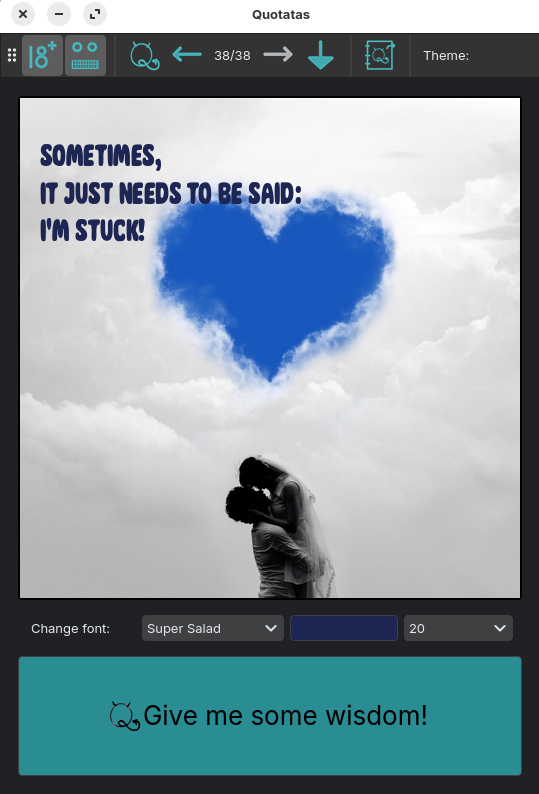
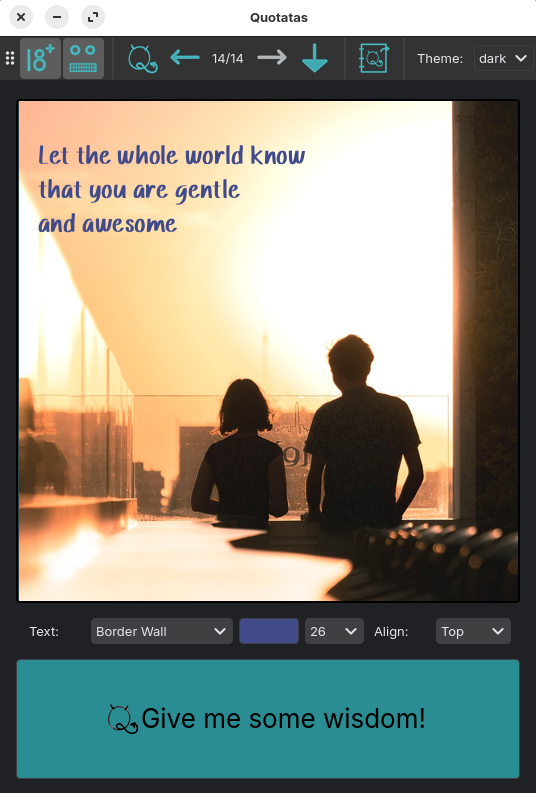
Some small corrections and new templates/words.

diff --git a/Quotatas/template_collection.py b/Quotatas/template_collection.py
@@ -195,13 +195,11 @@ def template_share():
 
 # Oh you
 def template_you():
-    return f'''{horoscope()}
-    You {noun_singular()}'''
+    return f'''{horoscope()}You {noun_singular()}'''
 
 # Oh adjective you
 def template_you_adjective():
-    return f'''{horoscope()}
-    You {adjective()} {noun_singular()}'''
+    return f'''{horoscope()}You {adjective()} {noun_singular()}'''
 
 # It can be
 def template_can_be():
@@ -210,8 +208,7 @@ def template_can_be():
 
 # No sorry
 def template_no_sorry():
-    return f'''{rule()}
-    Don't apologise
+    return f'''{rule()}Don't apologise
     for being {adjective()}'''
 
 # Reasons
@@ -313,8 +310,7 @@ def template_causation():
 
 # Two needs
 def template_two_needs():
-    return f'''{horoscope()}
-    The two things you need
+    return f'''{horoscope()}The two things you need
     in order to live {adverb()}
     are {random.choice([noun_plural(), concept()])} and {random.choice([noun_plural(), concept()])}'''
 
@@ -558,7 +554,7 @@ def template_like():
 # Effect
 def template_effect_again():
     noun = noun_singular()
-    end = random.choice([a_or_an(noun) + noun, concept()])
+    end = random.choice([f"{a_or_an(noun)} {noun}", concept()])
 
     return f'''{capitalize_first_letter(concept())}
     is usually followed
@@ -654,7 +650,6 @@ def template_recipe():
 	
 # Contents
 def template_contents():
-    food = food_singular()
     return f'''{capitalize_first_letter(concept())}?
     That's just {food_concept()},
     a tiny bit of {random.choice([food_singular(), concept()])}
@@ -669,8 +664,7 @@ def template_ingredients():
 # Necessity
 def template_necessity():
 	temp = noun_singular()
-	return f'''{rule()}
-    You need {random.choice([noun_plural(), f"{a_or_an(temp)} {temp}"])}
+	return f'''{rule()}You need {random.choice([noun_plural(), f"{a_or_an(temp)} {temp}"])}
     to {situation_active()}.'''
 	
 # Peanuts
@@ -762,6 +756,48 @@ def template_theydo():
 	return f'''{they} {verb_intransitive()}
     {they} {verb_intransitive()}
     {they} really {verb_intransitive()}'''
+
+# Complicated
+def template_complicated():
+    return f'''{horoscope()}{situation_active()}
+    complicates things'''
+
+# Of course
+def template_of_course():
+    return f'''Of course you are {adjective_positive()}
+    Of course you are {adjective_positive()}
+    Of course you are {adjective_positive()}'''
+
+# Attempt
+def template_attempt():
+    return f'''{concept()}
+    is actually our attempt
+    at solving the {concept()}
+    of {concept()}
+    '''
+
+# Memes
+def template_memes():
+    return f'''{rule()}Share memes
+    about {concept()}
+    '''
+
+# Spread
+def template_spread():
+    return f'''{horoscope()}Make
+    {concept()}
+    spread.
+    '''
+
+# Better
+def template_better():
+    adj1 = adjective()
+    adj2 = adjective()
+    return f'''{rule()}It's better to be
+    {a_or_an(adj1)} {adj1} {noun}
+    than
+    {a_or_an(adj2)} {adj2} {noun}
+    '''
 
 # List of defined templates (don't forget to add new templates here or they won't be used!)
 template_list = [template_times_three, 
@@ -866,5 +902,11 @@ template_list = [template_times_three,
                  template_noi,
                  template_dont,
                  template_theydo,
+                 template_complicated,
+                 template_of_course,
+                 template_attempt,
+                 template_memes,
+                 template_spread,
+                 template_better,
                  ]
 

diff --git a/Quotatas/main.py b/Quotatas/main.py
@@ -140,7 +140,7 @@ class MainWindow(QMainWindow):
         self.quote_area.setStyleSheet('background-color: #2a4648;')       
 
         # Font settings - name
-        self.change_font_label = QLabel("Font:")
+        self.change_font_label = QLabel("Text:")
         self.change_font_label.setObjectName('change_font_label')
         self.change_font = QComboBox()
         self.change_font.setObjectName('change_font')
